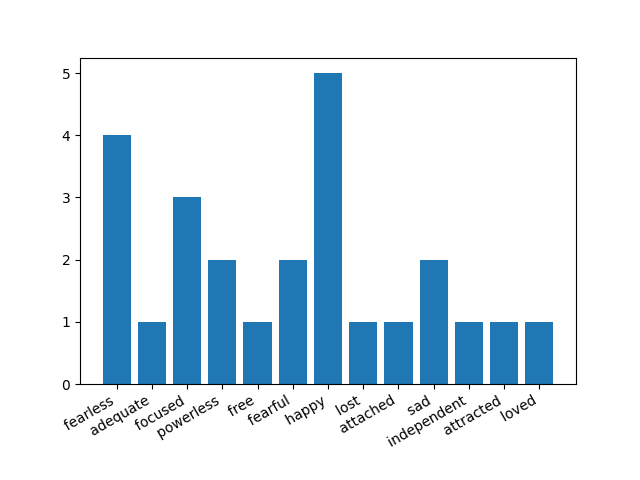
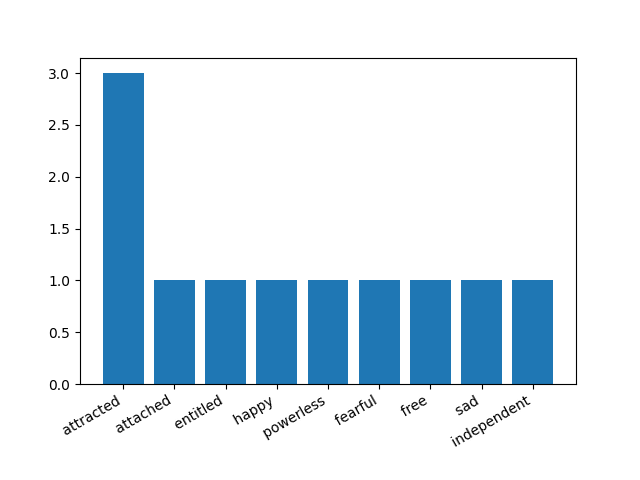
fixed files

diff --git a/tweets2.py b/tweets2.py
@@ -12,12 +12,24 @@ auth.set_access_token(access_token, access_token_secret)
 api = tweepy.API(auth,wait_on_rate_limit=True)
 #####United Airlines
 # Open/Create a file to append data
-csvFile = open('ua.csv', 'a')
+csvFile = open('tweets.csv', 'w')
 #Use csv Writer
 csvWriter = csv.writer(csvFile)
-
-for tweet in tweepy.Cursor(api.search,q="#justiceforSSR",count=10,
+c=0
+hashtag = str(input("enter the hashtag you want to search for : "))
+date = str(input("since YYYY-MM-DD :"))
+for tweet in tweepy.Cursor(api.search,q=hashtag,count=100,
                            lang="en",
-                           since="2020-08-03").items():
-    print (tweet.created_at, tweet.text)
-    csvWriter.writerow([tweet.created_at, tweet.text.encode('utf-8')])
+                           since=date).items():
+    if(c<100):
+        c+=1
+        csvWriter.writerow([tweet.created_at, tweet.text.encode('utf-8')])
+    else:
+        break
+
+csv_file = 'tweets.csv'
+txt_file = 'tweettext.txt'
+with open(txt_file, "w") as my_output_file:
+    with open(csv_file, "r") as my_input_file:
+        [ my_output_file.write(" ".join(row)+'\n') for row in csv.reader(my_input_file)]
+    my_output_file.close()

diff --git a/main.py b/main.py
@@ -2,7 +2,7 @@ import string
 from collections import Counter
 import matplotlib.pyplot as plt
 
-text  = open('read.txt',encoding='utf-8').read()
+text  = open('tweettext.txt',encoding='utf-8').read()
 lower_case = text.lower()
 clean_text = lower_case.translate(str.maketrans('','',string.punctuation))
 tokenized_words =  clean_text.split()
@@ -37,7 +37,7 @@ with open('emotions.txt', 'r') as file:
 
 
 w = Counter(emotion_list)
-print(w)
+
 
 fig , ax1 = plt.subplots()
 ax1.bar(w.keys(),w.values())
